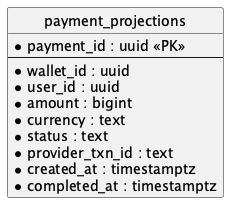
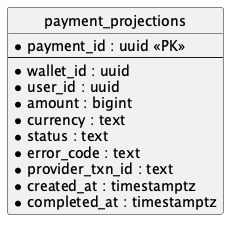
add events

Changed region(s): [[0.0297, 0.0286, 0.9492, 0.9714]]

diff --git a/week2/README.md b/week2/README.md
@@ -93,6 +93,7 @@ Response `200 OK`:
   "amount": 1000,
   "currency": "RUB",
   "status": "COMPLETED",
+  "errorCode": null,
   "providerTxnId": "uuid",
   "createdAt": "2024-01-15T10:00:00Z",
   "completedAt": "2024-01-15T10:00:05Z"
@@ -119,6 +120,7 @@ Response `200 OK`:
       "amount": 1000,
       "currency": "RUB",
       "status": "COMPLETED",
+      "errorCode": null,
       "providerTxnId": "uuid",
       "createdAt": "2024-01-15T10:00:00Z",
       "completedAt": "2024-01-15T10:00:05Z"
@@ -246,6 +248,7 @@ Response `200 OK`:
 | amount          | bigint      | Сумма в копейках/центах/...            |
 | currency        | text        | Код валюты                             |
 | status          | text        | PROCESSING, COMPLETED, FAILED          |
+| error_code      | text        | Код ошибки                             |
 | created_at      | timestamptz | Время создания                         |
 
 #### payment_outbox
@@ -272,9 +275,56 @@ Response `200 OK`:
 | amount          | bigint      | Сумма в копейках/центах/...             |
 | currency        | text        | Код валюты                              |
 | status          | text        | RESERVED, PROCESSING, COMPLETED, FAILED |
+| error_code      | text        | Код ошибки                              |
 | provider_txn_id | text        | ID транзакции от провайдера             |
 | created_at      | timestamptz | Время создания платежа                  |
-| completed_at    | timestamptz | Время завершения (null если в процессе) |
+| completed_at    | timestamptz | Время завершения                        |
 
 - GET /payments/{paymentId} => "SELECT \* FROM payment_projections WHERE payment_id = ?"
 - GET /payments?walletId={walletId} => "SELECT \* FROM payment_projections WHERE wallet_id = ? ORDER BY created_at DESC LIMIT ? OFFSET ?"
+
+## Events
+
+### PaymentInitiated
+
+Публикует Wallet Service после резервирования средств.
+
+| Поле      | Тип    | Описание                    |
+| --------- | ------ | --------------------------- |
+| paymentId | string | ID платежа                  |
+| walletId  | string | ID кошелька                 |
+| userId    | string | ID пользователя             |
+| amount    | number | Сумма в копейках/центах/... |
+| currency  | string | Код валюты                  |
+| createdAt | string | Время создания              |
+
+### PaymentCompleted
+
+Публикует Transaction Service после успешного callback от провайдера.
+
+| Поле          | Тип    | Описание                    |
+| ------------- | ------ | --------------------------- |
+| paymentId     | string | ID платежа                  |
+| providerTxnId | string | ID транзакции от провайдера |
+| completedAt   | string | Время завершения            |
+
+### PaymentFailed
+
+Публикует Transaction Service после неуспешного callback или таймаута.
+
+| Поле          | Тип    | Описание                                       |
+| ------------- | ------ | ---------------------------------------------- |
+| paymentId     | string | ID платежа                                     |
+| providerTxnId | string | ID транзакции от провайдера (null при timeout) |
+| errorCode     | string | Код ошибки                                     |
+| completedAt   | string | Время завершения                               |
+
+### ProviderCallbackReceived
+
+Публикует Callback Service после получения callback от провайдера.
+
+| Поле          | Тип    | Описание                    |
+| ------------- | ------ | --------------------------- |
+| providerTxnId | string | ID транзакции от провайдера |
+| status        | string | SUCCESS, FAILED             |
+| receivedAt    | string | Время получения             |
